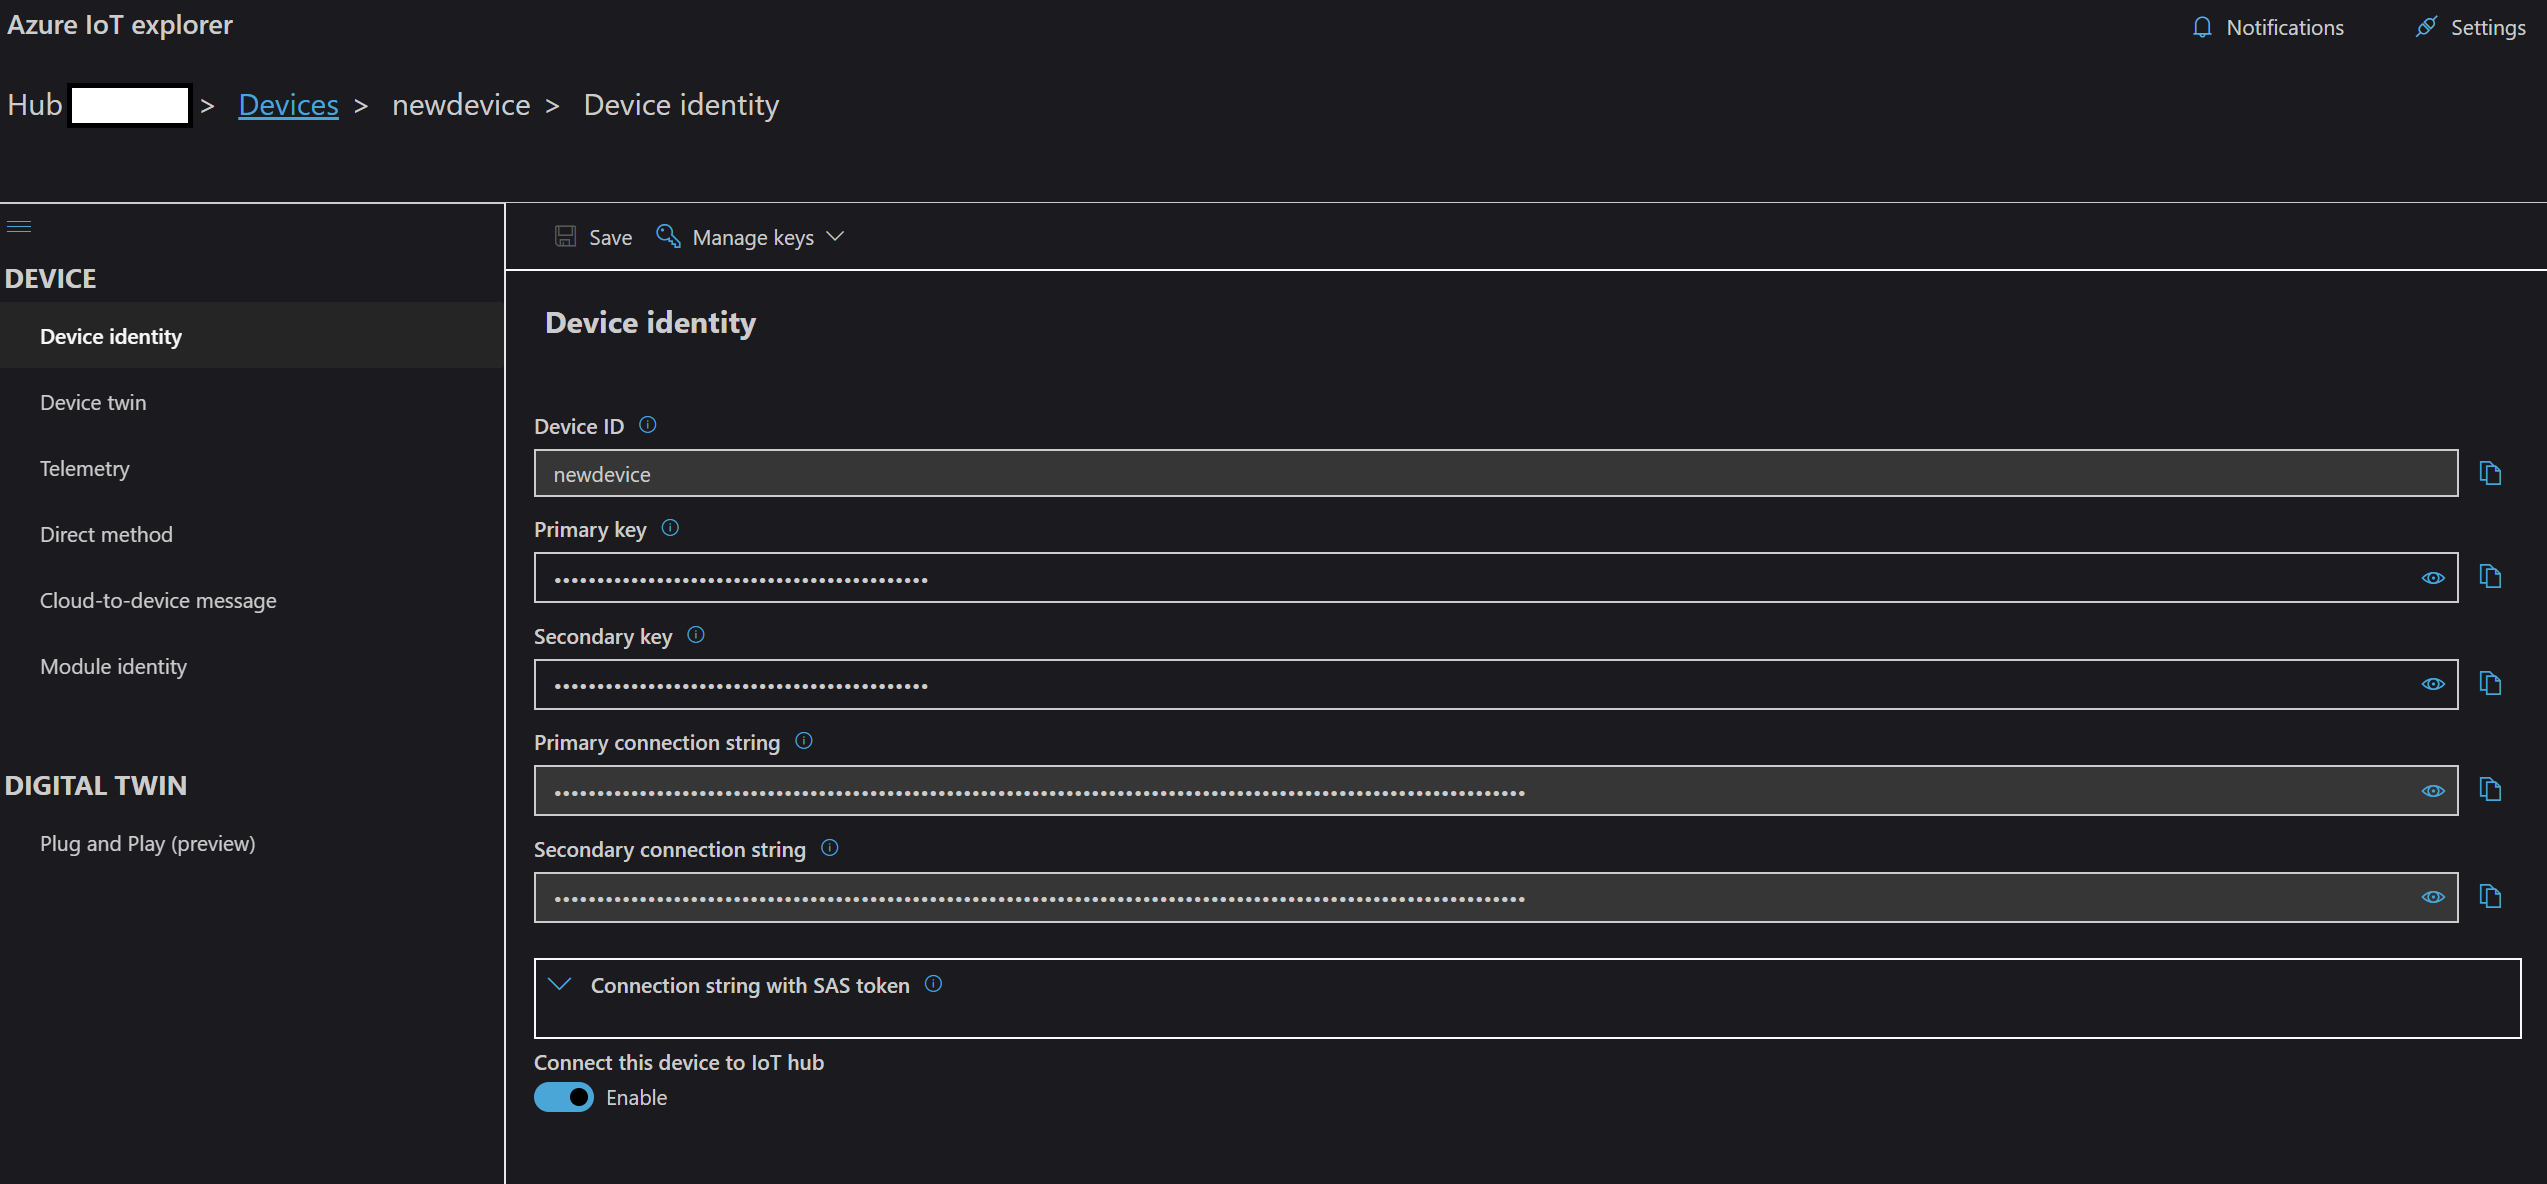
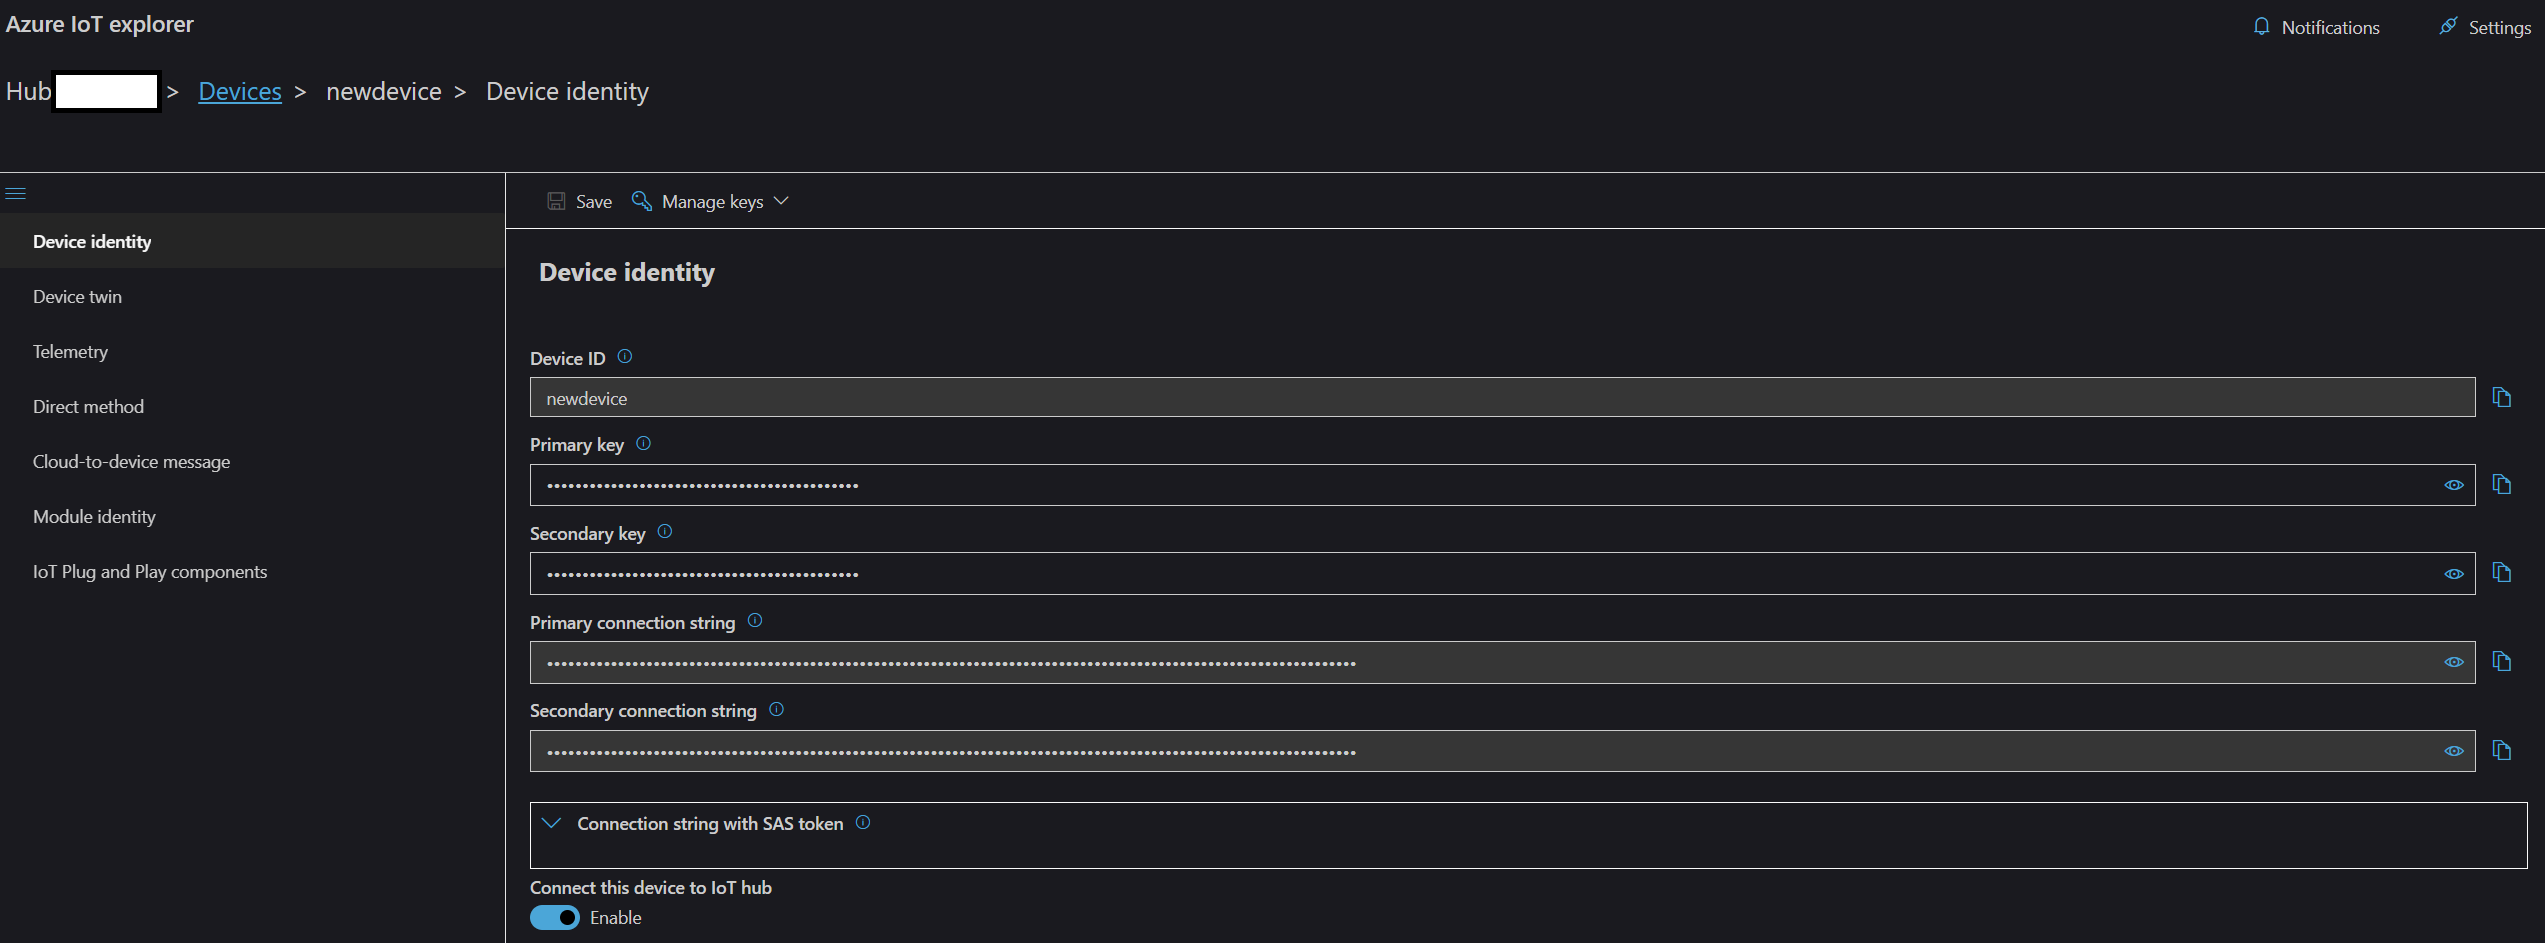
rebase from pnpRefresh

diff --git a/src/app/devices/deviceContent/components/deviceContentNav.tsx b/src/app/devices/deviceContent/components/deviceContentNav.tsx
@@ -5,7 +5,6 @@
 import * as React from 'react';
 import { RouteComponentProps } from 'react-router-dom';
 import { Nav, INavLinkGroup } from 'office-ui-fabric-react/lib/Nav';
-import { Label } from 'office-ui-fabric-react/lib/Label';
 import { LocalizationContextConsumer, LocalizationContextInterface } from '../../../shared/contexts/localizationContext';
 import { ResourceKeys } from '../../../../localization/resourceKeys';
 import { ROUTE_PARTS, ROUTE_PARAMS } from '../../../constants/routes';
@@ -44,41 +43,32 @@ export default class DeviceContentNavComponent extends React.Component<DeviceCon
         const url = this.props.match.url;
 
         const navItems = isEdgeDevice ? NAV_LINK_ITEMS : NAV_LINK_ITEMS_NONEDGE;
-        const nonPnpNavLinks = navItems.map((nav: string) => ({
+        let navLinks = navItems.map((nav: string) => ({
             key: nav,
             name: context.t((ResourceKeys.deviceContent.navBar as any)[nav]), // tslint:disable-line:no-any
             url: `#${url}/${nav}/?${ROUTE_PARAMS.DEVICE_ID}=${encodeURIComponent(deviceId)}`
         }));
 
         const groups: INavLinkGroup[] = [];
-        groups.push({
-            links: nonPnpNavLinks,
-            name: context.t(ResourceKeys.deviceContent.navBar.nonpnp)
-        });
 
         if (!isEdgeDevice && isPnPDevice) {
-            const pnpNavLinks = [{
+            navLinks = [...navLinks, {
                 key: NAV_LINK_ITEM_PNP,
                 name: context.t((ResourceKeys.deviceContent.navBar as any)[NAV_LINK_ITEM_PNP]), // tslint:disable-line:no-any
                 url: `#${url}/${NAV_LINK_ITEM_PNP}/?${ROUTE_PARAMS.DEVICE_ID}=${encodeURIComponent(deviceId)}`
             }];
-            groups.push({
-                links: pnpNavLinks,
-                name: context.t(ResourceKeys.deviceContent.navBar.pnp),
-            });
         }
+
+        groups.push({
+            links: navLinks,
+        });
 
         return (
             <div role="navigation">
                 <Nav
-                    onRenderGroupHeader={this.onRenderGroupHeader}
                     groups={groups}
                 />
             </div>
         );
-    }
-
-    private readonly onRenderGroupHeader = (group: INavLinkGroup) => {
-        return <Label className="nav-label">{group.name}</Label>;
     }
 }

diff --git a/src/localization/resourceKeys.ts b/src/localization/resourceKeys.ts
@@ -13,11 +13,11 @@ export class ResourceKeys {
       cloudToDeviceMessage : "breadcrumb.cloudToDeviceMessage",
       commands : "breadcrumb.commands",
       devices : "breadcrumb.devices",
-      digitalTwins : "breadcrumb.digitalTwins",
       events : "breadcrumb.events",
       hub : "breadcrumb.hub",
       identity : "breadcrumb.identity",
       interfaces : "breadcrumb.interfaces",
+      ioTPlugAndPlay : "breadcrumb.ioTPlugAndPlay",
       methods : "breadcrumb.methods",
       moduleIdentity : "breadcrumb.moduleIdentity",
       properties : "breadcrumb.properties",
@@ -160,12 +160,12 @@ export class ResourceKeys {
          cloudToDeviceMessage : "deviceContent.navBar.cloudToDeviceMessage",
          collapse : "deviceContent.navBar.collapse",
          commands : "deviceContent.navBar.commands",
-         digitalTwins : "deviceContent.navBar.digitalTwins",
          events : "deviceContent.navBar.events",
          eventsPerInterface : "deviceContent.navBar.eventsPerInterface",
          expand : "deviceContent.navBar.expand",
          identity : "deviceContent.navBar.identity",
          interfaces : "deviceContent.navBar.interfaces",
+         ioTPlugAndPlay : "deviceContent.navBar.ioTPlugAndPlay",
          methods : "deviceContent.navBar.methods",
          moduleDetail : "deviceContent.navBar.moduleDetail",
          moduleIdentity : "deviceContent.navBar.moduleIdentity",

diff --git a/src/app/devices/deviceContent/components/digitalTwin/digitalTwinHeaderView.tsx b/src/app/devices/deviceContent/components/digitalTwin/digitalTwinHeaderView.tsx
@@ -22,7 +22,7 @@ export const DigitalTwinHeaderView: React.FC<RouteComponentProps> = props => {
 
     const pivotItems = NAV_LINK_ITEMS_PNP.map(nav =>  {
         const text = t((ResourceKeys.deviceContent.navBar as any)[nav]); // tslint:disable-line:no-any
-        const path = props.match.url.replace(/\/digitalTwinsDetail\/.*/, `/${ROUTE_PARTS.DIGITAL_TWINS_DETAIL}`);
+        const path = props.match.url.replace(/\/ioTPlugAndPlayDetail\/.*/, `/${ROUTE_PARTS.DIGITAL_TWINS_DETAIL}`);
         const url = `#${path}/${nav}/?${ROUTE_PARAMS.DEVICE_ID}=${encodeURIComponent(deviceId)}&${ROUTE_PARAMS.COMPONENT_NAME}=${componentName}&${ROUTE_PARAMS.INTERFACE_ID}=${interfaceId}`;
         const isCurrentPivot = props.match.url.indexOf(nav) > 0;
         return (

diff --git a/src/app/devices/deviceContent/components/deviceInterfaces/deviceInterfaces.tsx b/src/app/devices/deviceContent/components/deviceInterfaces/deviceInterfaces.tsx
@@ -190,7 +190,7 @@ export default class DeviceInterfaces extends React.Component<DeviceInterfacePro
     }
 
     private readonly handleClose = () => {
-        const path = this.props.match.url.replace(/\/digitalTwinsDetail\/interfaces\/.*/, ``);
+        const path = this.props.match.url.replace(/\/ioTPlugAndPlayDetail\/interfaces\/.*/, ``);
         const deviceId = getDeviceIdFromQueryString(this.props);
         this.props.history.push(`${path}/?${ROUTE_PARAMS.DEVICE_ID}=${encodeURIComponent(deviceId)}`);
     }

diff --git a/src/app/devices/deviceContent/components/deviceEvents/deviceEventsPerInterface.tsx b/src/app/devices/deviceContent/components/deviceEvents/deviceEventsPerInterface.tsx
@@ -598,7 +598,7 @@ export default class DeviceEventsPerInterfaceComponent extends React.Component<D
     }
 
     private readonly handleClose = () => {
-        const path = this.props.match.url.replace(/\/digitalTwinsDetail\/events\/.*/, ``);
+        const path = this.props.match.url.replace(/\/ioTPlugAndPlayDetail\/events\/.*/, ``);
         const deviceId = getDeviceIdFromQueryString(this.props);
         this.props.history.push(`${path}/?${ROUTE_PARAMS.DEVICE_ID}=${encodeURIComponent(deviceId)}`);
     }

diff --git a/src/app/devices/deviceContent/components/deviceContentNav.spec.tsx b/src/app/devices/deviceContent/components/deviceContentNav.spec.tsx
@@ -64,7 +64,6 @@ describe('components/devices/deviceContentNav', () => {
         const wrapper = mountWithLocalization(getComponent({isPnPDevice: true, isEdgeDevice: false}));
 
         const navigation = wrapper.find(Nav);
-        expect(navigation.props().groups[0].links.length).toEqual(NAV_LINK_ITEMS_NONEDGE.length);
-        expect(navigation.props().groups[1].links.length).toEqual(1);
+        expect(navigation.props().groups[0].links.length).toEqual(NAV_LINK_ITEMS_NONEDGE.length + 1);
     });
 });

diff --git a/src/app/devices/deviceContent/components/deviceCommands/deviceCommands.spec.tsx b/src/app/devices/deviceContent/components/deviceCommands/deviceCommands.spec.tsx
@@ -23,7 +23,7 @@ describe('components/devices/deviceCommands', () => {
         setComponentName: jest.fn()
     };
 
-    const pathname = `/#/devices/detail/digitalTwins/commands/?id=device1&interfaceId=urn:iotInterfaces:com:interface1:1`;
+    const pathname = `/#/devices/deviceDetail/ioTPlugAndPlay/ioTPlugAndPlayDetail/commands/?id=device1&componentName=foo&interfaceId=urn:iotInterfaces:com:interface1:1`;
 
     const location: any = { // tslint:disable-line:no-any
         pathname

diff --git a/src/app/devices/deviceContent/components/deviceProperties/deviceProperties.tsx b/src/app/devices/deviceContent/components/deviceProperties/deviceProperties.tsx
@@ -93,7 +93,7 @@ export default class DeviceProperties
     }
 
     private readonly handleClose = () => {
-        const path = this.props.match.url.replace(/\/digitalTwinsDetail\/properties\/.*/, ``);
+        const path = this.props.match.url.replace(/\/ioTPlugAndPlayDetail\/properties\/.*/, ``);
         const deviceId = getDeviceIdFromQueryString(this.props);
         this.props.history.push(`${path}/?${ROUTE_PARAMS.DEVICE_ID}=${encodeURIComponent(deviceId)}`);
     }

diff --git a/src/app/devices/deviceContent/components/deviceCommands/deviceCommands.tsx b/src/app/devices/deviceContent/components/deviceCommands/deviceCommands.tsx
@@ -105,7 +105,7 @@ export default class DeviceCommands
     }
 
     private readonly handleClose = () => {
-        const path = this.props.match.url.replace(/\/digitalTwinsDetail\/commands\/.*/, ``);
+        const path = this.props.match.url.replace(/\/ioTPlugAndPlayDetail\/commands\/.*/, ``);
         const deviceId = getDeviceIdFromQueryString(this.props);
         this.props.history.push(`${path}/?${ROUTE_PARAMS.DEVICE_ID}=${encodeURIComponent(deviceId)}`);
     }

diff --git a/src/app/devices/deviceContent/components/deviceSettings/deviceSettings.tsx b/src/app/devices/deviceContent/components/deviceSettings/deviceSettings.tsx
@@ -106,7 +106,7 @@ export default class DeviceSettings
     }
 
     private readonly handleClose = () => {
-        const path = this.props.match.url.replace(/\/digitalTwinsDetail\/settings\/.*/, ``);
+        const path = this.props.match.url.replace(/\/ioTPlugAndPlayDetail\/settings\/.*/, ``);
         const deviceId = getDeviceIdFromQueryString(this.props);
         this.props.history.push(`${path}/?${ROUTE_PARAMS.DEVICE_ID}=${encodeURIComponent(deviceId)}`);
     }

diff --git a/src/app/devices/deviceContent/components/deviceProperties/deviceProperties.spec.tsx b/src/app/devices/deviceContent/components/deviceProperties/deviceProperties.spec.tsx
@@ -40,7 +40,7 @@ describe('components/devices/deviceProperties', () => {
         setComponentName: jest.fn()
     };
 
-    const pathname = `/#/devices/detail/digitalTwins/properties/?id=device1&interfaceId=${interfaceId}`;
+    const pathname = `/#/devices/deviceDetail/ioTPlugAndPlay/ioTPlugAndPlayDetail/properties/?id=device1&componentName=foo&interfaceId=${interfaceId}`;
 
     const location: any = { // tslint:disable-line:no-any
         pathname

diff --git a/src/app/devices/deviceContent/components/deviceSettings/deviceSettings.spec.tsx b/src/app/devices/deviceContent/components/deviceSettings/deviceSettings.spec.tsx
@@ -45,7 +45,7 @@ describe('components/devices/deviceSettings', () => {
         setComponentName: jest.fn()
     };
 
-    const pathname = `/#/devices/detail/digitalTwins/settings/?id=device1&interfaceId=${interfaceId}`;
+    const pathname = `/#/devices/deviceDetail/ioTPlugAndPlay/ioTPlugAndPlayDetail/settings/?id=device1&componentName=foo&interfaceId=${interfaceId}`;
 
     const location: any = { // tslint:disable-line:no-any
         pathname
